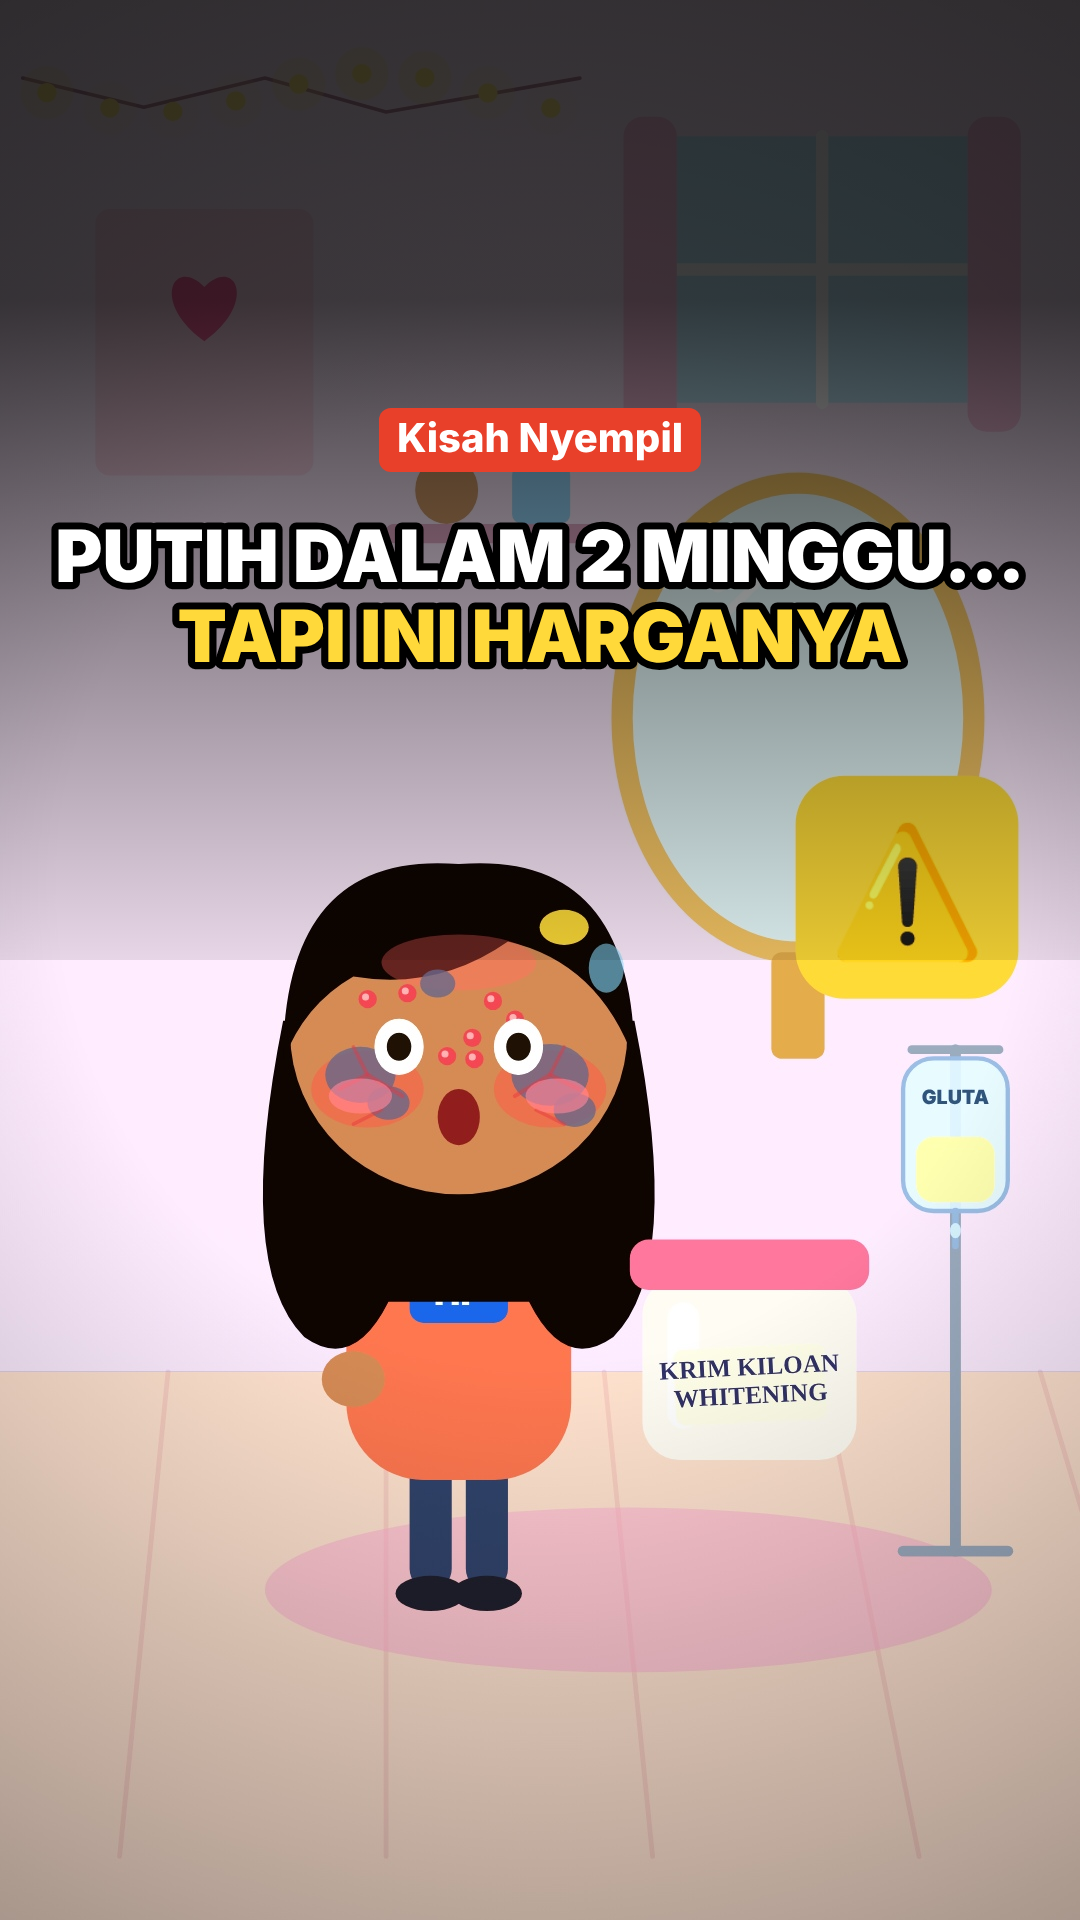
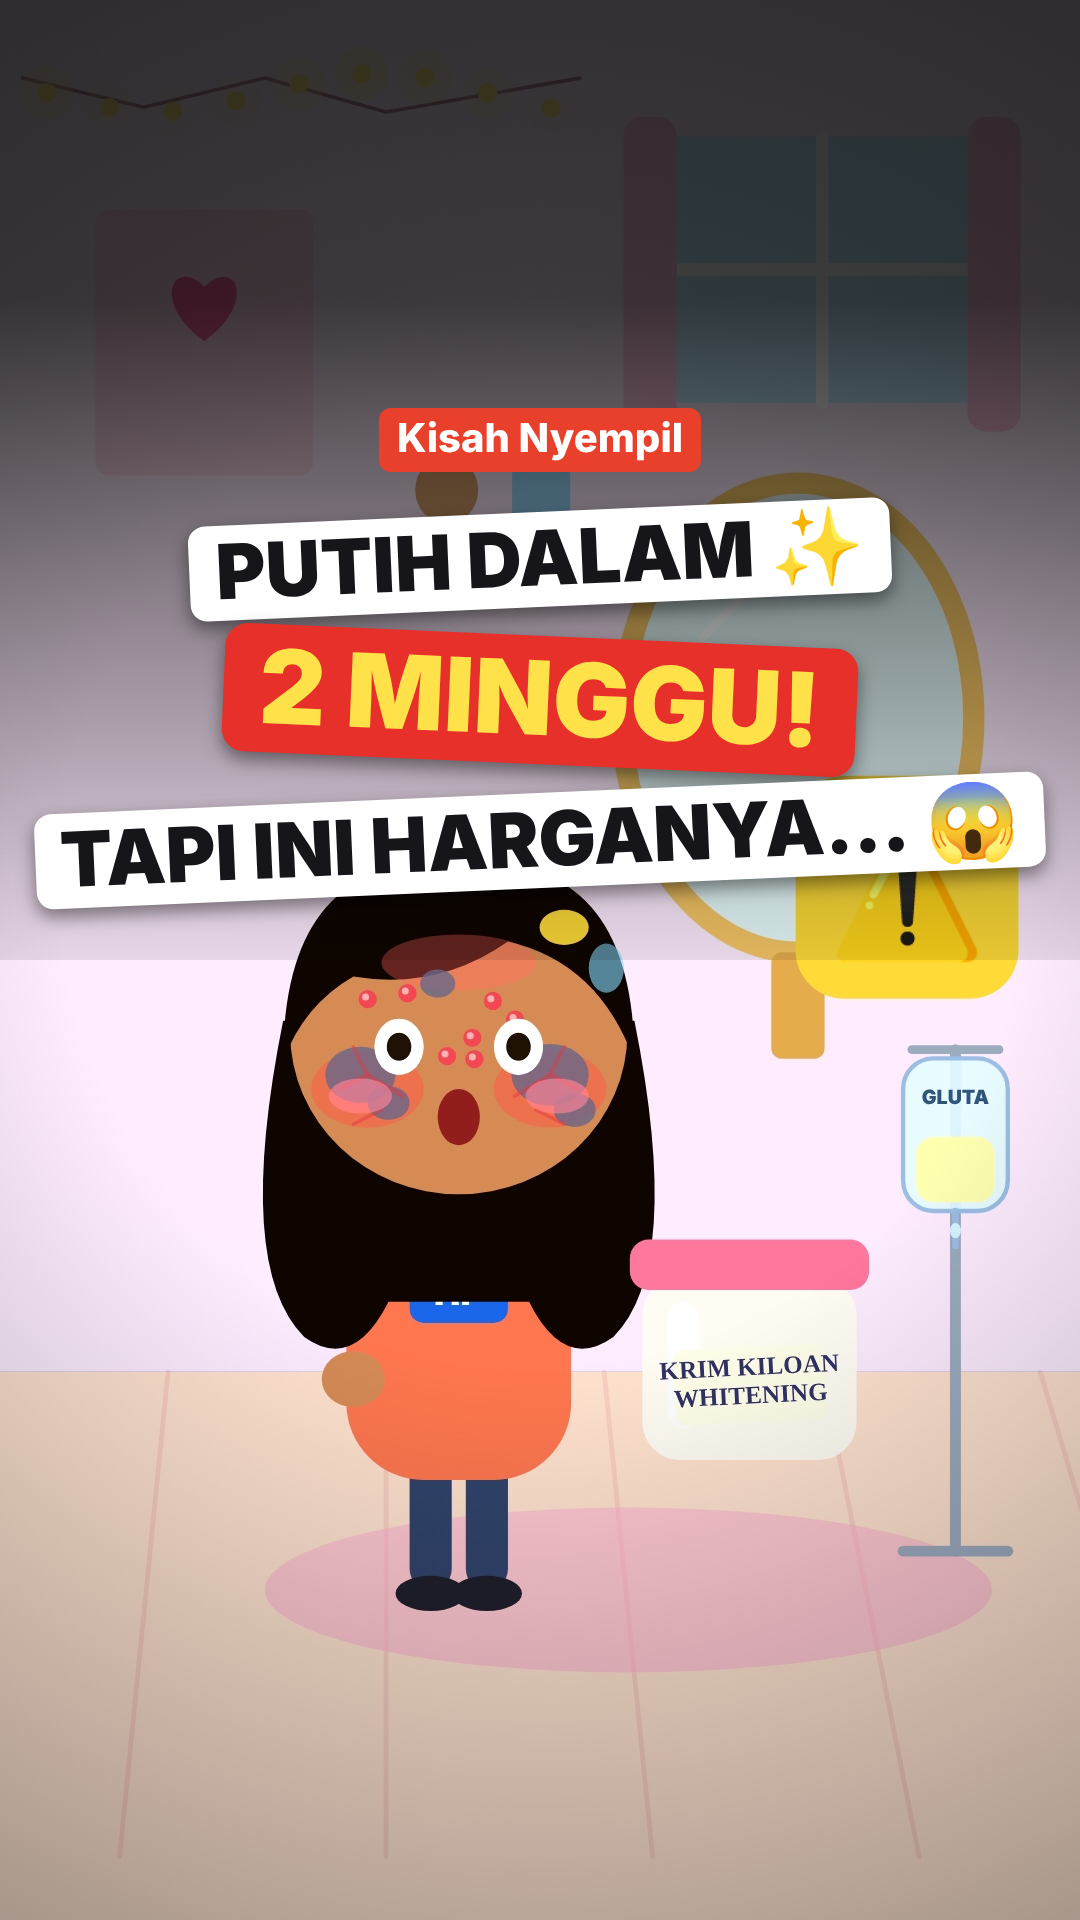
Judul hook gaya papan (video + thumbnail slab) untuk Pemutih; catatan di panduan
Claude-Session: https://claude.ai/code/session_01Godms2QmoQZrHkybEKC2ML

Changed region(s): [[0.0306, 0.25, 0.9778, 0.5]]

diff --git a/animasi/thumb.js b/animasi/thumb.js
@@ -8,7 +8,7 @@ const path = require('path');
 const fs = require('fs');
 
 (async () => {
-  const [html, tStr, hook, out, highlight = ''] = process.argv.slice(2);
+  const [html, tStr, hook, out, highlight = '', gaya = ''] = process.argv.slice(2);  // gaya 'slab' = tiap baris di atas papan miring berwarna
   if (!html || !tStr || !hook || !out) {
     console.error('Pemakaian: node animasi/thumb.js <html> <detik> "<HOOK|BARIS>" <keluaran> [kata-sorot]');
     process.exit(1);
@@ -17,7 +17,7 @@ const fs = require('fs');
   const page = await browser.newPage();
   await page.goto('file://' + path.join(__dirname, html));
   const lines = hook.split('|').map(s => s.trim()).filter(Boolean);
-  const res = await page.evaluate(([t, lines, hl]) => {
+  const res = await page.evaluate(([t, lines, hl, gaya]) => {
     // Bingkai tanpa caption & judul: pakai paintScene langsung lewat SAKA.frame lalu tutup caption dengan gambar ulang.
     window.caption = function () {};  // tanpa caption kata
     window.THUMB = true;  // adegan boleh menyembunyikan label (GAGAL/KUNCINYA)
@@ -47,6 +47,21 @@ const fs = require('fs');
           g.font = '900 ' + size + 'px system-ui, sans-serif'; g.textBaseline = 'middle'; g.lineJoin = 'round';
           const lh = size * 1.12, x0 = mode === 'v' ? W / 2 : 50, y0 = mode === 'v' ? 560 : H / 2 - (lines.length - 1) * lh / 2;
           g.textAlign = mode === 'v' ? 'center' : 'left';
+          if (gaya === 'slab') {
+            // Gaya papan: baris kata-sorot = papan merah, teks kuning, lebih besar; baris lain = papan putih, teks hitam.
+            const big = l => hl && l.toUpperCase().includes(hl.toUpperCase());
+            const sz = l => big(l) ? size * 1.35 : size;
+            const gap = size * .38; let tot = lines.reduce((a, l) => a + sz(l) * 1.25 + gap, -gap), y = (mode === 'v' ? 700 : H / 2 + 20) - tot / 2;
+            lines.forEach((l, i) => {
+              const S = sz(l); g.font = '900 ' + S + 'px system-ui, sans-serif';
+              const w = Math.min(g.measureText(l).width + S * .7, maxW + S * .5), h = S * 1.25, cx = mode === 'v' ? W / 2 : 40 + w / 2;
+              g.save(); g.translate(cx, y + h / 2); g.rotate((i % 2 ? 2.5 : -2.5) * Math.PI / 180);
+              g.shadowColor = 'rgba(0,0,0,.45)'; g.shadowBlur = 18; g.shadowOffsetY = 8;
+              g.fillStyle = big(l) ? '#e8302a' : '#ffffff'; g.beginPath(); g.roundRect(-w / 2, -h / 2, w, h, S * .22); g.fill(); g.shadowColor = 'transparent';
+              g.textAlign = 'center'; g.fillStyle = big(l) ? '#ffe14a' : '#16161a'; g.fillText(l, 0, S * .04, maxW + S * .2); g.restore();
+              y += h + gap;
+            });
+          } else
           lines.forEach((l, i) => {
             const y = y0 + i * lh;
             g.lineWidth = size * .2; g.strokeStyle = '#000'; g.strokeText(l, x0, y);
@@ -63,7 +78,7 @@ const fs = require('fs');
       };
       img.src = src;
     });
-  }, [Number(tStr), lines, highlight]);
+  }, [Number(tStr), lines, highlight, gaya]);
   for (const [k, suf] of [['v', '-vertikal.png'], ['h', '-yt.png']]) {
     fs.writeFileSync(out + suf, Buffer.from(res[k].split(',')[1], 'base64'));
     console.log('Thumbnail:', out + suf);

diff --git a/animasi/pemutih/krim-kiloan.html b/animasi/pemutih/krim-kiloan.html
@@ -962,6 +962,20 @@ function paintScene(key,t,dt,len){
   if(!window.THUMB&&BULAN[key]){const k=popS(clamp(dt/.4));g.save();g.translate(typeof BULAN[key]==='string'?320:360,108);g.scale(k,k);{const lb=typeof BULAN[key]==='string'?BULAN[key]:'BULAN '+BULAN[key];g.font='900 18px system-ui, sans-serif';const ww=Math.max(116,g.measureText(lb).width+30);rr(-ww/2,-20,ww,40,20,'#2a2a3a');tx(lb,0,1,18,'#ffd24a',900)};g.restore()}
 }
 function camOverride(key,p){return null}
+
+// ---------- Judul hook gaya papan (menimpa hookTitle bawaan) ----------
+const HOOK_SLAB=[['PUTIH DALAM ✨',26,'#ffffff','#16161a',-3],['2 MINGGU!',44,'#e8302a','#ffe14a',2.5],['TAPI INI HARGANYA… 😱',24,'#ffffff','#16161a',-2]];
+function hookTitle(a){if(window.THUMB)return;const t=window._t||0;g.save();g.globalAlpha=a;
+  const bg=clamp((t-.9)/.3);const gr0=g.createLinearGradient(0,150,0,450);gr0.addColorStop(0,'rgba(0,0,0,0)');gr0.addColorStop(.25,'rgba(20,0,20,'+(.55*bg)+')');gr0.addColorStop(.8,'rgba(20,0,20,'+(.55*bg)+')');gr0.addColorStop(1,'rgba(0,0,0,0)');g.fillStyle=gr0;g.fillRect(-300,150,1100,300);
+  g.save();g.globalAlpha=a*bg;g.font='800 14px system-ui, sans-serif';const tw=g.measureText('Kisah Nyempil').width+24;rr(225-tw/2,196,tw,24,8,'#e8402a');tx('Kisah Nyempil',225,208,14,'#fff',800);g.restore();
+  let y=258;HOOK_SLAB.forEach(([s,size,bgc,fg,rot],i)=>{const k=clamp((t-1.05-i*.42)/.32);const h=size*1.3;if(k>0){const sc=k<1?.3+.95*Math.sin(k*Math.PI*.62)/Math.sin(Math.PI*.62)*(1+.12*Math.sin(k*Math.PI)):1;
+    const wob=k>=1?Math.sin(t*3+i)*.6:0;g.save();g.globalAlpha=a*clamp(k*2);g.translate(225,y);g.rotate((rot+wob)*Math.PI/180);g.scale(sc,sc);
+    g.font='900 '+size+'px system-ui, sans-serif';const w=Math.min(420,g.measureText(s).width+size*.7);
+    g.save();g.shadowColor='rgba(0,0,0,.45)';g.shadowBlur=10;g.shadowOffsetY=5;rr(-w/2,-h/2,w,h,size*.22,bgc);g.restore();
+    if(bgc==='#e8302a'){const pul=.5+.5*Math.sin(t*6);g.save();g.globalAlpha=.25*pul;rr(-w/2-6,-h/2-6,w+12,h+12,size*.3,'#ffe14a');g.restore()}
+    tx(s,0,size*.05,size,fg,900);g.restore()}
+    y+=h/2+(HOOK_SLAB[i+1]?HOOK_SLAB[i+1][1]*1.3/2:0)+10});
+  g.restore()}
 const GRADE={saturate:1.08,contrast:1.12,brightness:1.0,vignette:.45};
 function grade(scale){
   g.save();g.setTransform(1,0,0,1,0,0);g.filter='saturate('+GRADE.saturate+') contrast('+GRADE.contrast+') brightness('+GRADE.brightness+')';

diff --git a/animasi/PANDUAN-GAYA.md b/animasi/PANDUAN-GAYA.md
@@ -50,6 +50,8 @@ Patokan untuk setiap cerita baru. Contoh lengkapnya: `sumur-mbah-darmi.html` + `
 - **Jalur subtitle (y ± 545–615 dari 800) harus kosong**: label/teks adegan ditaruh di atas 530 atau di bawah 630, supaya tidak bertumpuk dengan caption kata.
 - **Gerakan harus hidup**: ikan/hewan berenang di jalur acak (gabungan beberapa sinus + variasi kecepatan), arah badan mengikuti arah gerak, kibasan ekor sesuai kecepatan, berkerumun saat diberi pakan; tangan tokoh bergerak berulang saat menabur/menyiram; objek di air naik-turun pelan.
 
+- **Judul hook gaya papan (lebih menarik, mulai Seri Pemutih):** tiap baris di atas papan miring (putih teks hitam; baris kunci = papan merah teks kuning, lebih besar, berdenyut), muncul satu per satu memantul, sedikit bergoyang. Kalimat pendek + emoji (✨ 😱). Video: definisikan ulang `hookTitle` dengan `HOOK_SLAB` (lihat `pemutih`). Thumbnail: `node animasi/thumb.js <html> <detik> "BARIS|BARIS|BARIS" <keluaran> "<baris kunci>" slab`.
+
 ## 2. Pola cerita
 
 Misteri desa → digosipkan warga → tokoh muda penasaran menyelidiki diam-diam (biasanya malam hari) → ketahuan → **"Ternyata..."** → penjelasan ilmiah (adegan *zoom* ke dalam: tanah, akar, sel, dsb.) → warga ikut mencontoh → kalimat penutup yang menyimpulkan.
